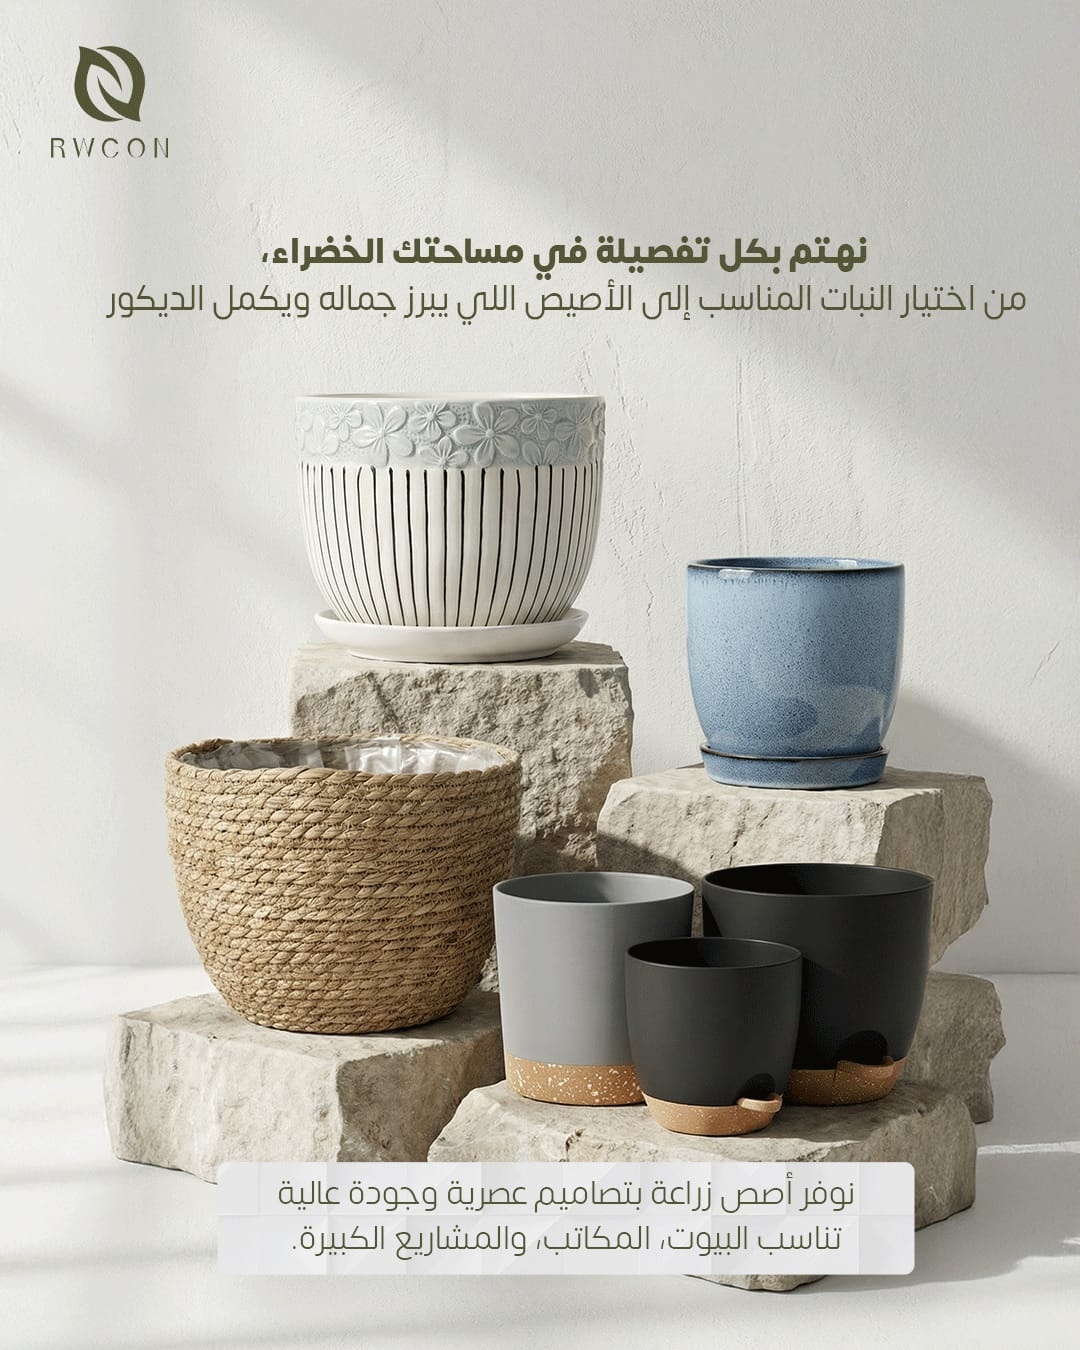
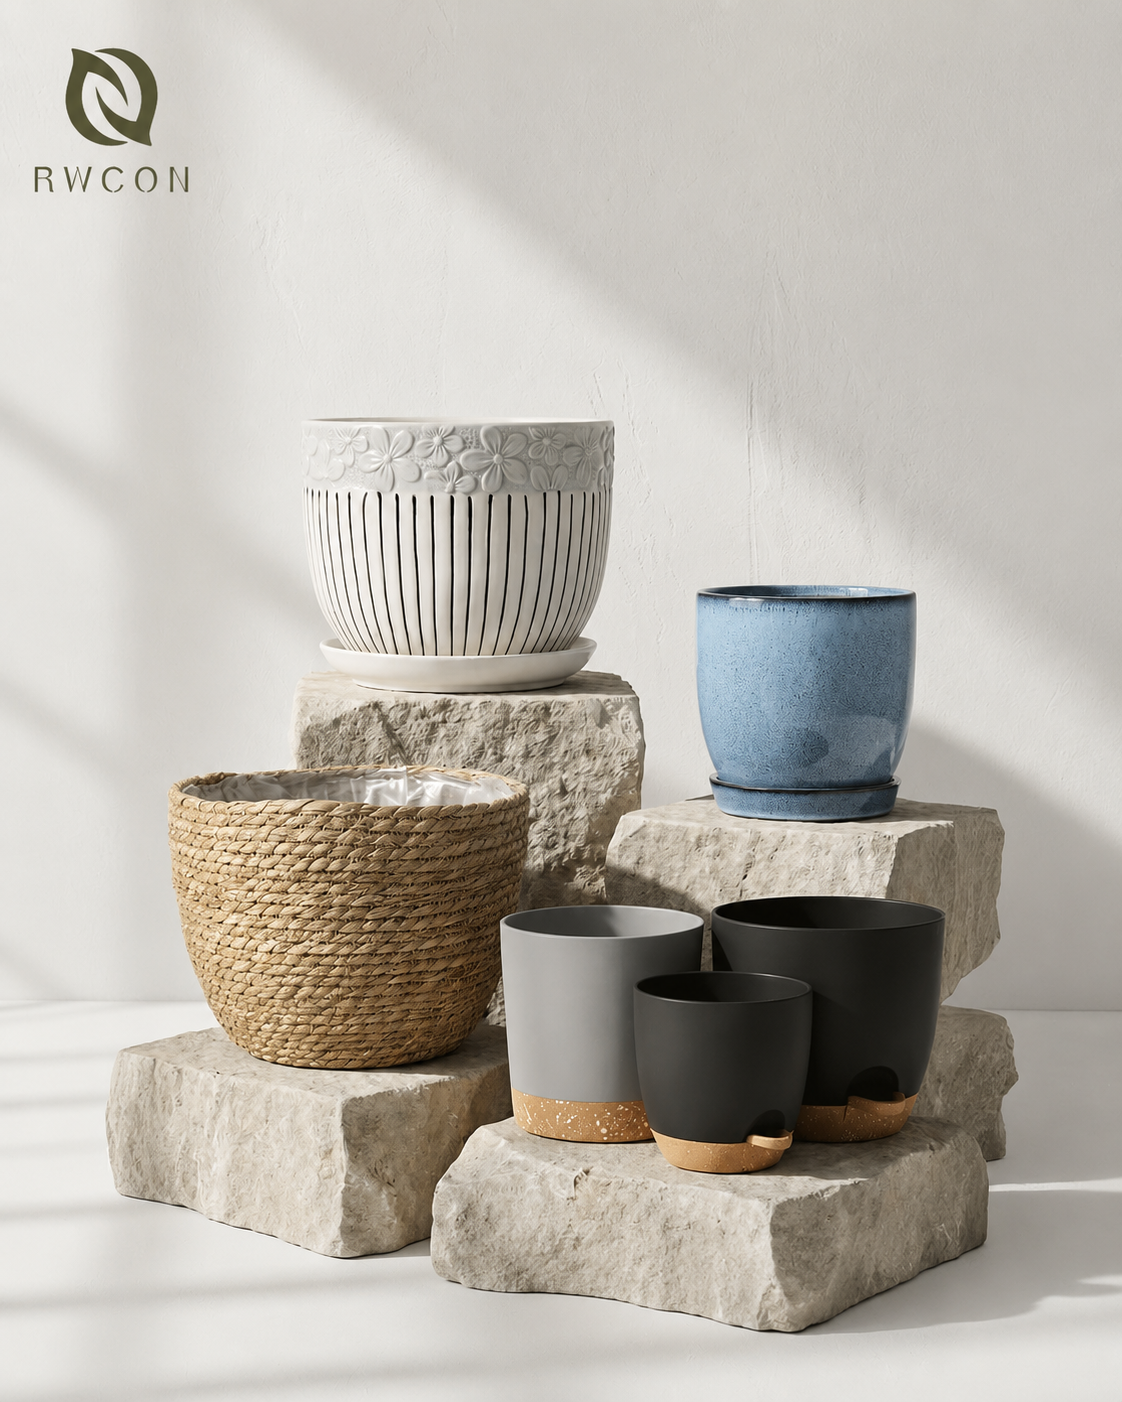
adding poolprojects

Changed region(s): [[0.0917, 0.1556, 1.0, 0.9644], [0.0306, 0.0311, 0.1833, 0.1556], [0.4278, 0.1244, 0.4583, 0.1556]]

diff --git a/src/pages/Pools.js b/src/pages/Pools.js
@@ -17,14 +17,61 @@ const poolProjects = [
   },
   { 
     id: 2, 
+    title: ' أعمال مسبح وحدات حياة لشقق المخدومة ', 
+    desc: 'إنشاء وتجهيز المسابح الأولمبية والأنظمة المائية لنادي الريم الرياضي', 
+    images: [
+      require('../images/128.jpg')
+    ]
+  },
+  
+   { 
+    id: 3, 
+    title: '  الأعمال الكهروميكانيكية المسبح الأوليمبى بشرما  ', 
+    desc: 'تنفيذ أنظمة الفلترة المتطورة والأعمال الكهروميكانيكيةوالمدنية لمسبح فيلا  ', 
+    images: [
+      require('../images/124.jpg'),
+      require('../images/125.jpg')
+    ]
+  },
+  { 
+    id: 4, 
     title: 'مشروع مسبح نوادى الريم الرياضية', 
     desc: 'إنشاء وتجهيز المسابح الأولمبية والأنظمة المائية لنادي الريم الرياضي', 
     images: [
       require('../images/75.jpg')
     ]
   },
+  
   { 
-    id: 3, 
+    id: 5, 
+    title: ' أعمال المسبح الأوليمبى لمنتجع جدة', 
+    desc: 'تنفيذ أنظمة الفلترة المتطورة والأعمال الكهروميكانيكيةوالمدنية لمسبح فيلا  ', 
+    images: [
+      require('../images/127.jpg'),
+      require('../images/126.jpg')
+    ]
+  },
+   { 
+    id: 5, 
+    title: ' أعمال مسبح ليروا سويتس الميدان ', 
+    desc: 'تنفيذ أنظمة الفلترة المتطورة والأعمال الكهروميكانيكيةوالمدنية لمسبح فيلا  ', 
+    images: [
+      require('../images/132.jpg'),
+      require('../images/131.jpg')
+    ]
+  },
+   { 
+    id: 6, 
+    title: ' أعمال مسبح هوليداى ان الميدان', 
+    desc: 'تنفيذ أنظمة الفلترة المتطورة والأعمال الكهروميكانيكيةوالمدنية لمسبح فيلا  ', 
+    images: [
+      require('../images/130.jpg'),
+      require('../images/129.jpg')
+    ]
+  },
+  
+  { 
+    id: 7, 
     title: 'مشروع مسبح هوليداي ان تبوك', 
     desc: 'تطوير وتحديث أنظمة حمام السباحة الرئيسي لفندق هوليداي إن تبوك', 
     images: [
@@ -32,6 +79,7 @@ const poolProjects = [
       require('../images/77.jpg')
     ]
   }
+  
 ];
 
 function Pools() {

diff --git a/src/pages/Home.js b/src/pages/Home.js
@@ -5,10 +5,10 @@ import WhatsAppFab from '../Components/WhatsAppFab';
 import heroImg from '../images/hero.jpg';
 
 // استيراد صور حية ومعبرة وكبيرة لكل خدمة
-import poolsImg from '../images/73.jpg';      // صورة للمسابح
-import fountainsImg from '../images/83.jpg';  // صورة للنوافير
-import landscapeImg from '../images/79.jpg';  // صورة للاندسكيب
-import plantsImg from '../images/hero.jpg';     // صورة للمزروعات والأواني
+import poolsImg from '../images/m.jpg';      // صورة للمسابح
+import fountainsImg from '../images/200.jpg';  // صورة للنوافير
+import landscapeImg from '../images/111.jpg';  // صورة للاندسكيب
+import plantsImg from '../images/150.jpg';     // صورة للمزروعات والأواني
 import magicImg from '../images/img13.jpeg';     // صورة لقسم ماجيك
 
 import './Home.css';
@@ -70,9 +70,13 @@ function Home() {
           <div className="hero__actions">
             <a href="https://wa.me/966592001640" target="_blank" rel="noreferrer" className="btn-primary btn-hero">
               تواصل على واتساب
+              <br />
+              CONTACT US
             </a>
             <Link to="/about" className="btn-secondary">
               تعرّف علينا
+              <br />
+              ABOUT US
             </Link>
           </div>
         </div>
@@ -84,18 +88,18 @@ function Home() {
           <h2>خدماتنا</h2>
           <p>حلول متكاملة لكل مساحة — من التصميم حتى التسليم</p>
         </div>
-        
+
         <div className="services-grid">
           {SERVICES.map(({ to, img, title, desc, theme }) => (
-            <Link 
-              key={to} 
-              to={to} 
+            <Link
+              key={to}
+              to={to}
               className={`service-card service-card--full-bg service-card--${theme}`}
               style={{ backgroundImage: `url(${img})` }}
             >
               {/* طبقة الظل لضمان وضوح النصوص البيضاء فوق الصورة */}
               <div className="service-card__overlay" />
-              
+
               <div className="service-card__content">
                 <h3>{title}</h3>
                 <p>{desc}</p>

diff --git a/src/Components/Navbar.css b/src/Components/Navbar.css
@@ -1,15 +1,17 @@
 /* ==================== 1. الستايل الأساسي والكمبيوتر (Desktop) ==================== */
 .navbar-wrap {
-  position: relative; /* الكود الجديد: هيفضل ثابت فوق ومش هينزل مع السكرول */
-  z-index: 100;
-} 
+  position: sticky;
+  top: 0;
+  z-index: 1000;
+  width: 100%;
+}
 .navbar {
   display: flex;
   align-items: center;
   justify-content: space-between;
   height: var(--nav-height, 70px);
   padding: 0 1.25rem;
-  background: rgba(255, 255, 255, 0.92);
+  background: rgb(255, 255, 255);
   backdrop-filter: blur(12px);
   -webkit-backdrop-filter: blur(12px);
   border-bottom: 1px solid var(--border, #e2e8f0);
@@ -24,7 +26,7 @@
 }
 
 .nav-logo {
-  height: 48px;
+  height: 70px;
   width: auto;
   object-fit: contain;
 }

diff --git a/src/pages/Landscape.js b/src/pages/Landscape.js
@@ -33,8 +33,7 @@ const landscapeProjects = [
     title: 'تنسيق احواض وحديقه فله بالرياض', 
     desc: 'تنسيق داخلي وخارجي فاخر باستخدام نباتات طبيعية منتقاة بعناية مدمجة مع تشكيلة الأصص الحديثة لتوائم الطابع الفندقي الراقي.', 
     images: [
-      require('../images/111.jpg'),
-      require('../images/112.jpg'),
+       require('../images/112.jpg'),
       require('../images/113.jpg'),
       require('../images/114.jpg'),
       require('../images/115.jpg'),